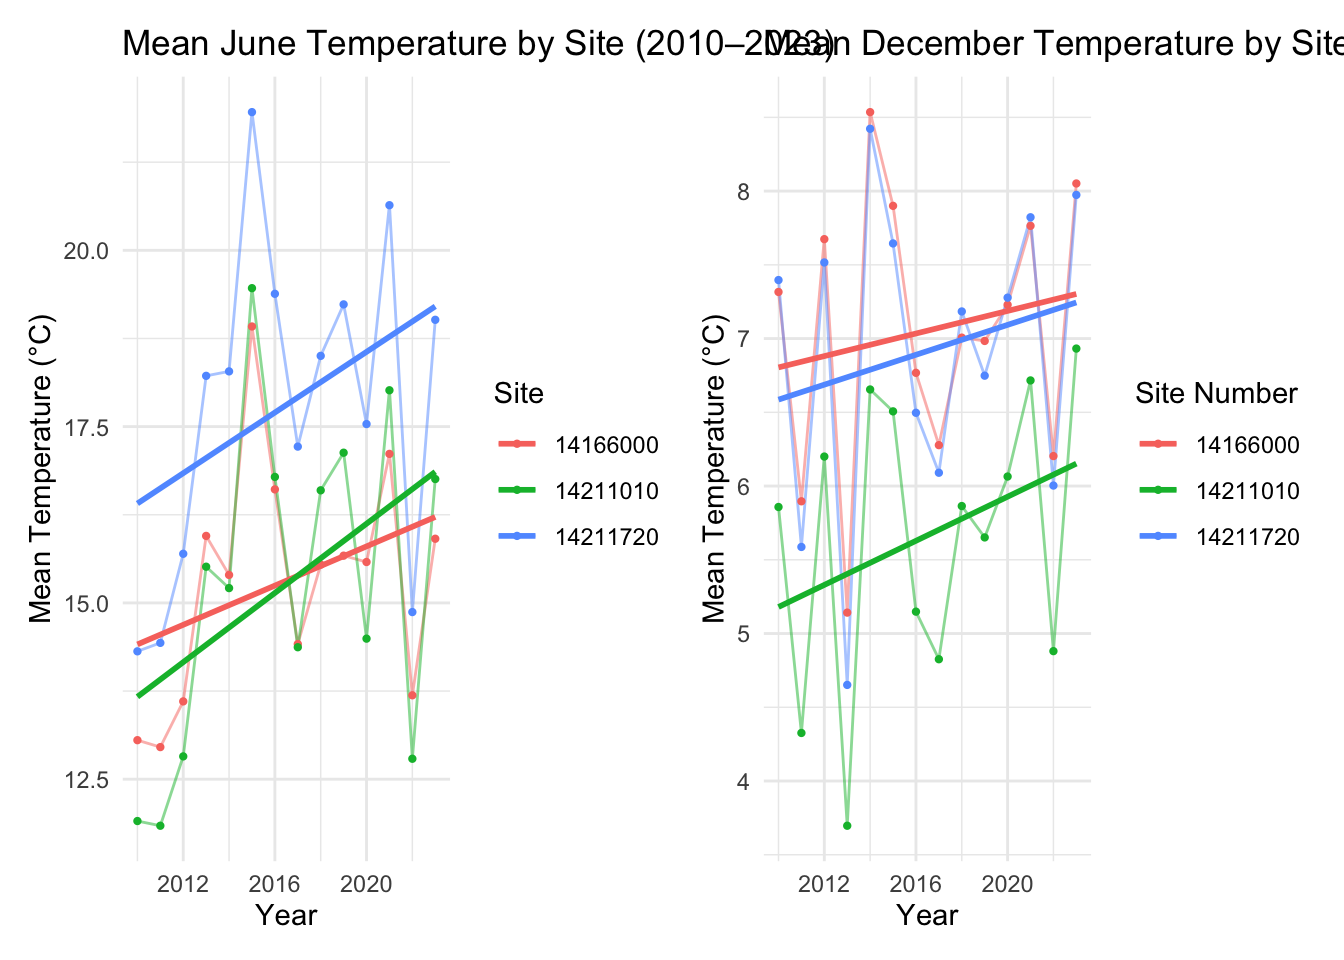
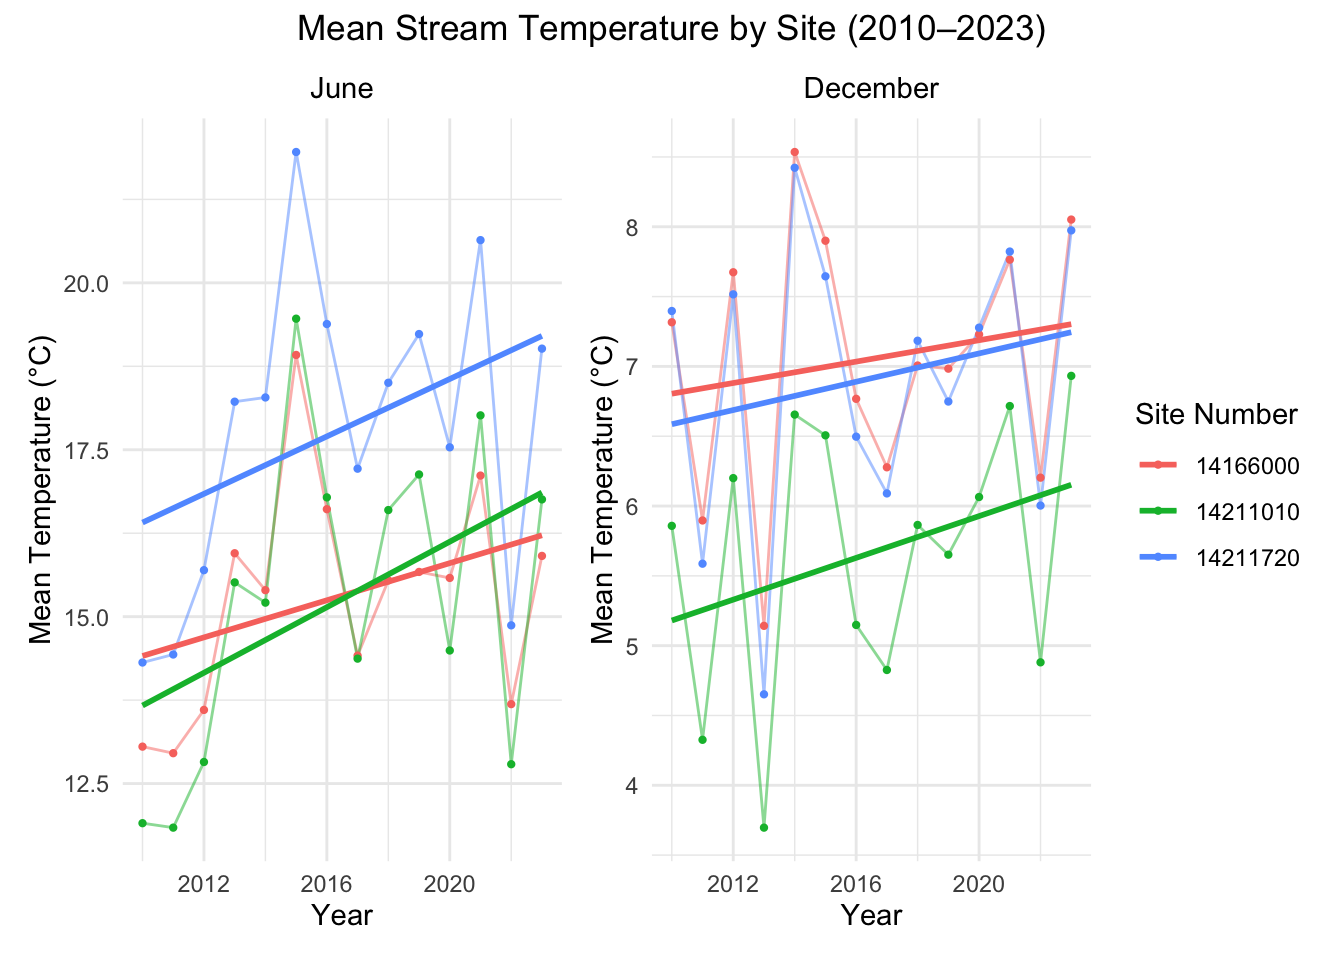
writing

diff --git a/Final_Summary.html b/Final_Summary.html
@@ -25,41 +25,6 @@ ul.task-list li input[type="checkbox"] {
   margin: 0 0.8em 0.2em -1em; /* quarto-specific, see https://github.com/quarto-dev/quarto-cli/issues/4556 */ 
   vertical-align: middle;
 }
-/* CSS for syntax highlighting */
-html { -webkit-text-size-adjust: 100%; }
-pre > code.sourceCode { white-space: pre; position: relative; }
-pre > code.sourceCode > span { display: inline-block; line-height: 1.25; }
-pre > code.sourceCode > span:empty { height: 1.2em; }
-.sourceCode { overflow: visible; }
-code.sourceCode > span { color: inherit; text-decoration: inherit; }
-div.sourceCode { margin: 1em 0; }
-pre.sourceCode { margin: 0; }
-@media screen {
-div.sourceCode { overflow: auto; }
-}
-@media print {
-pre > code.sourceCode { white-space: pre-wrap; }
-pre > code.sourceCode > span { text-indent: -5em; padding-left: 5em; }
-}
-pre.numberSource code
-  { counter-reset: source-line 0; }
-pre.numberSource code > span
-  { position: relative; left: -4em; counter-increment: source-line; }
-pre.numberSource code > span > a:first-child::before
-  { content: counter(source-line);
-    position: relative; left: -1em; text-align: right; vertical-align: baseline;
-    border: none; display: inline-block;
-    -webkit-touch-callout: none; -webkit-user-select: none;
-    -khtml-user-select: none; -moz-user-select: none;
-    -ms-user-select: none; user-select: none;
-    padding: 0 4px; width: 4em;
-  }
-pre.numberSource { margin-left: 3em;  padding-left: 4px; }
-div.sourceCode
-  {   }
-@media screen {
-pre > code.sourceCode > span > a:first-child::before { text-decoration: underline; }
-}
 </style>
 
 
@@ -115,98 +80,16 @@ pre > code.sourceCode > span > a:first-child::before { text-decoration: underlin
 </header>
 
 
+<section id="overview" class="level2">
+<h2 class="anchored" data-anchor-id="overview">Overview</h2>
+<p>Our team analyzed mean stream temperatures in Oregon’s Willametter River to better understand how this variable differs between winter and summer. We utilized USGS data from 2010-2023 to calculate the average stream temperature for the months of June and December.</p>
+</section>
 <section id="summary-of-findings" class="level2">
 <h2 class="anchored" data-anchor-id="summary-of-findings">Summary of Findings</h2>
-<section id="june-temperature-trends" class="level4">
-<h4 class="anchored" data-anchor-id="june-temperature-trends">June Temperature Trends</h4>
-<div class="cell">
-<div class="cell-output cell-output-stdout">
-<pre><code>
-Call:
-glm(formula = temp_C ~ year * site_no, data = june_data)
-
-Coefficients:
-                       Estimate Std. Error t value Pr(&gt;|t|)    
-(Intercept)          -262.44470   60.98306  -4.304 1.81e-05 ***
-year                    0.13775    0.03024   4.555 5.76e-06 ***
-site_no14211010      -208.59913   86.40809  -2.414   0.0159 *  
-site_no14211720      -152.96022   86.61967  -1.766   0.0777 .  
-year:site_no14211010    0.10341    0.04285   2.413   0.0160 *  
-year:site_no14211720    0.07709    0.04296   1.795   0.0730 .  
----
-Signif. codes:  0 '***' 0.001 '**' 0.01 '*' 0.05 '.' 0.1 ' ' 1
-
-(Dispersion parameter for gaussian family taken to be 6.214176)
-
-    Null deviance: 10319.9  on 1248  degrees of freedom
-Residual deviance:  7724.2  on 1243  degrees of freedom
-AIC: 5834.2
-
-Number of Fisher Scoring iterations: 2</code></pre>
-</div>
-</div>
-</section>
-<section id="december-temperature-trends" class="level4">
-<h4 class="anchored" data-anchor-id="december-temperature-trends">December Temperature Trends</h4>
-<div class="cell">
-<div class="code-copy-outer-scaffold"><div class="sourceCode cell-code" id="cb2"><pre class="sourceCode r code-with-copy"><code class="sourceCode r"><span id="cb2-1"><a href="#cb2-1" aria-hidden="true" tabindex="-1"></a><span class="fu">library</span>(tidyverse)</span>
-<span id="cb2-2"><a href="#cb2-2" aria-hidden="true" tabindex="-1"></a><span class="co"># filter for December temperatures</span></span>
-<span id="cb2-3"><a href="#cb2-3" aria-hidden="true" tabindex="-1"></a>dec_data <span class="ot">&lt;-</span> <span class="fu">subset</span>(temp_data, month <span class="sc">==</span> <span class="st">"Dec"</span>)</span>
-<span id="cb2-4"><a href="#cb2-4" aria-hidden="true" tabindex="-1"></a></span>
-<span id="cb2-5"><a href="#cb2-5" aria-hidden="true" tabindex="-1"></a>dec_summary <span class="ot">&lt;-</span> dec_data <span class="sc">|&gt;</span></span>
-<span id="cb2-6"><a href="#cb2-6" aria-hidden="true" tabindex="-1"></a>  <span class="fu">group_by</span>(year, site_no) <span class="sc">|&gt;</span></span>
-<span id="cb2-7"><a href="#cb2-7" aria-hidden="true" tabindex="-1"></a>  <span class="fu">summarize</span>(<span class="at">mean_temp =</span> <span class="fu">mean</span>(temp_C, <span class="at">na.rm=</span><span class="cn">TRUE</span>))</span>
-<span id="cb2-8"><a href="#cb2-8" aria-hidden="true" tabindex="-1"></a></span>
-<span id="cb2-9"><a href="#cb2-9" aria-hidden="true" tabindex="-1"></a><span class="co"># fit a GLM model to see if there is a trend in Dec temperatures over time, separated by sit</span></span>
-<span id="cb2-10"><a href="#cb2-10" aria-hidden="true" tabindex="-1"></a>dec_model <span class="ot">&lt;-</span> <span class="fu">glm</span>(temp_C <span class="sc">~</span> year<span class="sc">*</span>site_no, <span class="at">data =</span> dec_data)</span>
-<span id="cb2-11"><a href="#cb2-11" aria-hidden="true" tabindex="-1"></a><span class="fu">summary</span>(dec_model)</span></code></pre></div><button title="Copy to Clipboard" class="code-copy-button"><i class="bi"></i></button></div>
-<div class="cell-output cell-output-stdout">
-<pre><code>
-Call:
-glm(formula = temp_C ~ year * site_no, data = dec_data)
-
-Coefficients:
-                      Estimate Std. Error t value Pr(&gt;|t|)  
-(Intercept)          -68.68072   33.85944  -2.028   0.0427 *
-year                   0.03756    0.01679   2.237   0.0255 *
-site_no14211010      -76.43674   47.83283  -1.598   0.1103  
-site_no14211720      -30.40905   47.93614  -0.634   0.5260  
-year:site_no14211010   0.03722    0.02372   1.569   0.1169  
-year:site_no14211720   0.01501    0.02377   0.632   0.5278  
----
-Signif. codes:  0 '***' 0.001 '**' 0.01 '*' 0.05 '.' 0.1 ' ' 1
-
-(Dispersion parameter for gaussian family taken to be 1.979829)
-
-    Null deviance: 3137.6  on 1298  degrees of freedom
-Residual deviance: 2559.9  on 1293  degrees of freedom
-AIC: 4581.6
-
-Number of Fisher Scoring iterations: 2</code></pre>
-</div>
-</div>
-</section>
+<p>The figure below shows that winter has cooler stream temperatures, with an average of 6.55 degrees Celsius compared to June’s average of 16.13 degrees Celsius.</p>
 <section id="comparing-june-and-december-temperature-trends" class="level4">
 <h4 class="anchored" data-anchor-id="comparing-june-and-december-temperature-trends">Comparing June and December Temperature Trends</h4>
 <div class="cell">
-<div class="code-copy-outer-scaffold"><div class="sourceCode cell-code" id="cb4"><pre class="sourceCode r code-with-copy"><code class="sourceCode r"><span id="cb4-1"><a href="#cb4-1" aria-hidden="true" tabindex="-1"></a>june_plot <span class="ot">&lt;-</span> <span class="fu">ggplot</span>(june_avg, <span class="fu">aes</span>(<span class="at">x =</span> year, <span class="at">y =</span> mean_temp, <span class="at">color =</span> site_no)) <span class="sc">+</span></span>
-<span id="cb4-2"><a href="#cb4-2" aria-hidden="true" tabindex="-1"></a>  <span class="fu">geom_line</span>(<span class="at">alpha =</span> <span class="fl">0.5</span>) <span class="sc">+</span></span>
-<span id="cb4-3"><a href="#cb4-3" aria-hidden="true" tabindex="-1"></a>  <span class="fu">geom_point</span>(<span class="at">size =</span> <span class="fl">0.8</span>) <span class="sc">+</span></span>
-<span id="cb4-4"><a href="#cb4-4" aria-hidden="true" tabindex="-1"></a>  <span class="fu">geom_smooth</span>(<span class="at">method =</span> <span class="st">"lm"</span>, <span class="at">se =</span> <span class="cn">FALSE</span>) <span class="sc">+</span></span>
-<span id="cb4-5"><a href="#cb4-5" aria-hidden="true" tabindex="-1"></a>  <span class="fu">labs</span>(<span class="at">title =</span> <span class="st">"Mean June Temperature by Site (2010–2023)"</span>,</span>
-<span id="cb4-6"><a href="#cb4-6" aria-hidden="true" tabindex="-1"></a>       <span class="at">x =</span> <span class="st">"Year"</span>, <span class="at">y =</span> <span class="st">"Mean Temperature (°C)"</span>, <span class="at">color =</span> <span class="st">"Site"</span>) <span class="sc">+</span></span>
-<span id="cb4-7"><a href="#cb4-7" aria-hidden="true" tabindex="-1"></a>  <span class="fu">theme_minimal</span>()</span>
-<span id="cb4-8"><a href="#cb4-8" aria-hidden="true" tabindex="-1"></a></span>
-<span id="cb4-9"><a href="#cb4-9" aria-hidden="true" tabindex="-1"></a>dec_plot <span class="ot">&lt;-</span> <span class="fu">ggplot</span>(dec_summary, </span>
-<span id="cb4-10"><a href="#cb4-10" aria-hidden="true" tabindex="-1"></a>                   <span class="fu">aes</span>(<span class="at">x=</span>year, <span class="at">y=</span>mean_temp, <span class="at">color=</span>site_no)) <span class="sc">+</span> </span>
-<span id="cb4-11"><a href="#cb4-11" aria-hidden="true" tabindex="-1"></a>  <span class="fu">geom_line</span>(<span class="at">alpha=</span><span class="fl">0.5</span>) <span class="sc">+</span></span>
-<span id="cb4-12"><a href="#cb4-12" aria-hidden="true" tabindex="-1"></a>  <span class="fu">geom_point</span>(<span class="at">size=</span><span class="fl">0.8</span>) <span class="sc">+</span></span>
-<span id="cb4-13"><a href="#cb4-13" aria-hidden="true" tabindex="-1"></a>  <span class="fu">geom_smooth</span>(<span class="at">method =</span> <span class="st">"lm"</span>, <span class="at">se =</span> <span class="cn">FALSE</span>) <span class="sc">+</span></span>
-<span id="cb4-14"><a href="#cb4-14" aria-hidden="true" tabindex="-1"></a>  <span class="fu">labs</span>(<span class="at">title=</span><span class="st">"Mean December Temperature by Site (2010-2023)"</span>, </span>
-<span id="cb4-15"><a href="#cb4-15" aria-hidden="true" tabindex="-1"></a>       <span class="at">x=</span><span class="st">"Year"</span>, <span class="at">y=</span><span class="st">"Mean Temperature (°C)"</span>, <span class="at">color=</span><span class="st">"Site Number"</span>) <span class="sc">+</span></span>
-<span id="cb4-16"><a href="#cb4-16" aria-hidden="true" tabindex="-1"></a>  <span class="fu">theme_minimal</span>()</span>
-<span id="cb4-17"><a href="#cb4-17" aria-hidden="true" tabindex="-1"></a></span>
-<span id="cb4-18"><a href="#cb4-18" aria-hidden="true" tabindex="-1"></a>june_plot <span class="sc">+</span> dec_plot</span></code></pre></div><button title="Copy to Clipboard" class="code-copy-button"><i class="bi"></i></button></div>
 <div class="cell-output-display">
 <div>
 <figure class="figure">
